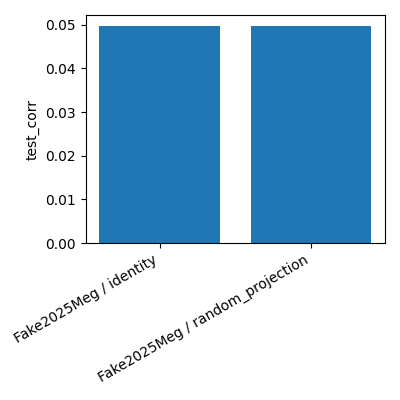
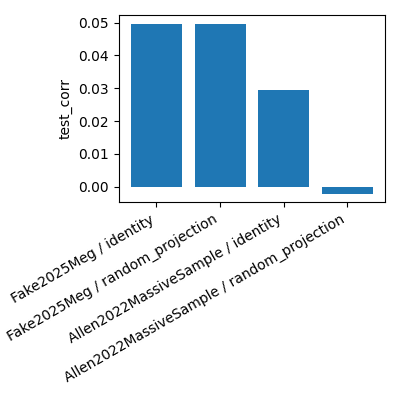
Add local-path config and demonstrate real predictivity on NSD fMRI
Add Dataset.path so a pre-downloaded study can be targeted without
re-downloading. Run identity vs random_projection on the real
Allen2022MassiveSample image->fMRI sample: the two in-code models now
produce clearly different test_corr (0.0295 vs -0.0022), confirming the
ridge predictivity reward meaningfully ranks models (unlike the random
Fake2025Meg default where both score identical noise).

diff --git a/neuro-autoresearch/config.py b/neuro-autoresearch/config.py
@@ -19,6 +19,7 @@ class Dataset:
     start: float = 0.0               # segment start, seconds after trigger
     duration: float = 0.3            # segment duration, seconds
     download: bool = False           # download the study before running?
+    path: str | None = None          # pre-downloaded data dir; None => shared cache
     test_frac: float = 0.2           # held-out fraction
     seed: int = 0                    # split seed
 

diff --git a/neuro-autoresearch/src/data.py b/neuro-autoresearch/src/data.py
@@ -30,7 +30,7 @@ _NEURAL = {
 
 def load_split(d: Dataset):
     """Return (X_train, X_test, Y_train, Y_test) as 2-D float tensors."""
-    path = None if d.download else ns.CACHE_FOLDER
+    path = d.path if d.path is not None else (None if d.download else ns.CACHE_FOLDER)
     study = ns.Study(name=d.study, path=path)
     if d.download:
         study.download()
